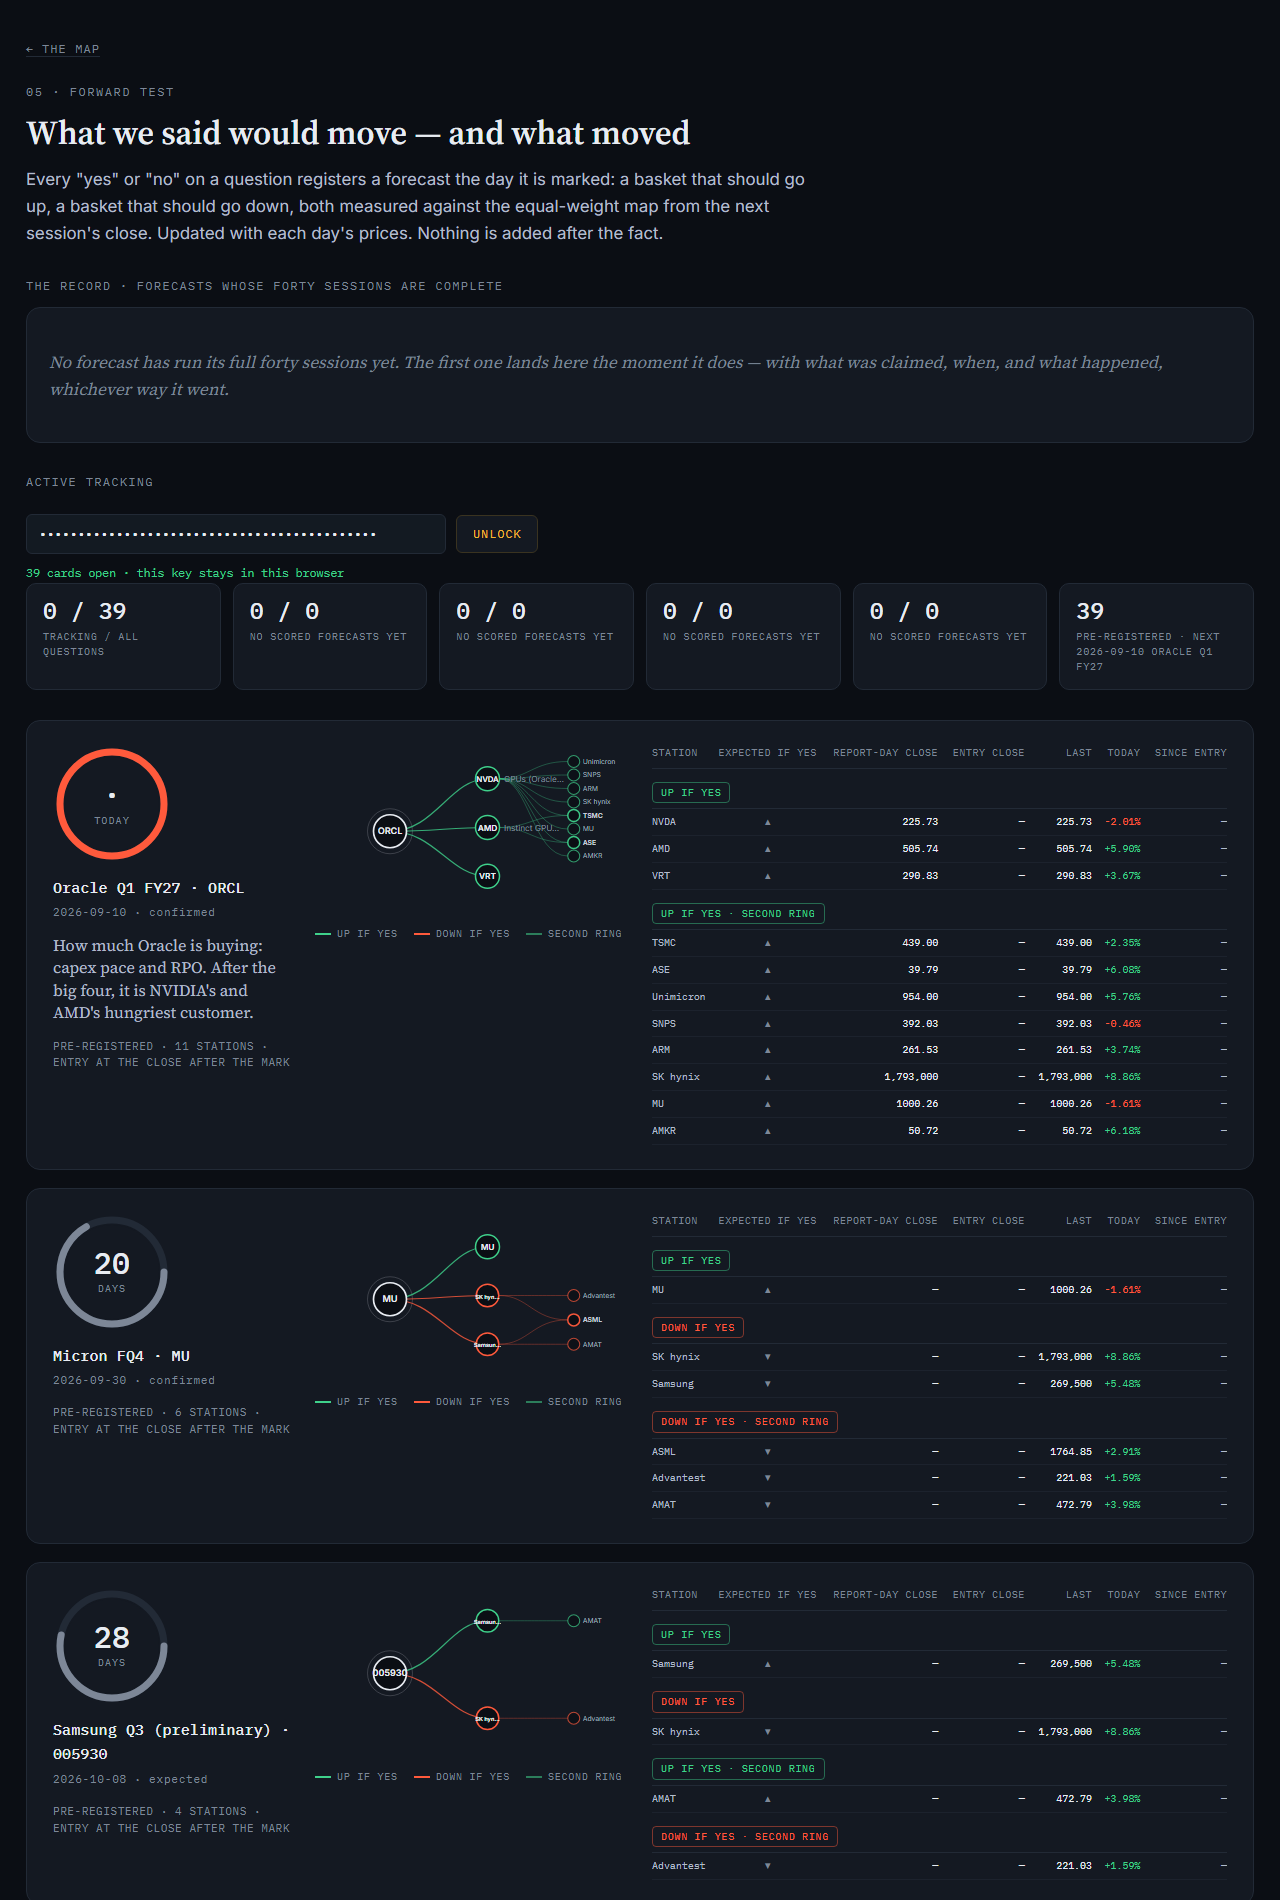
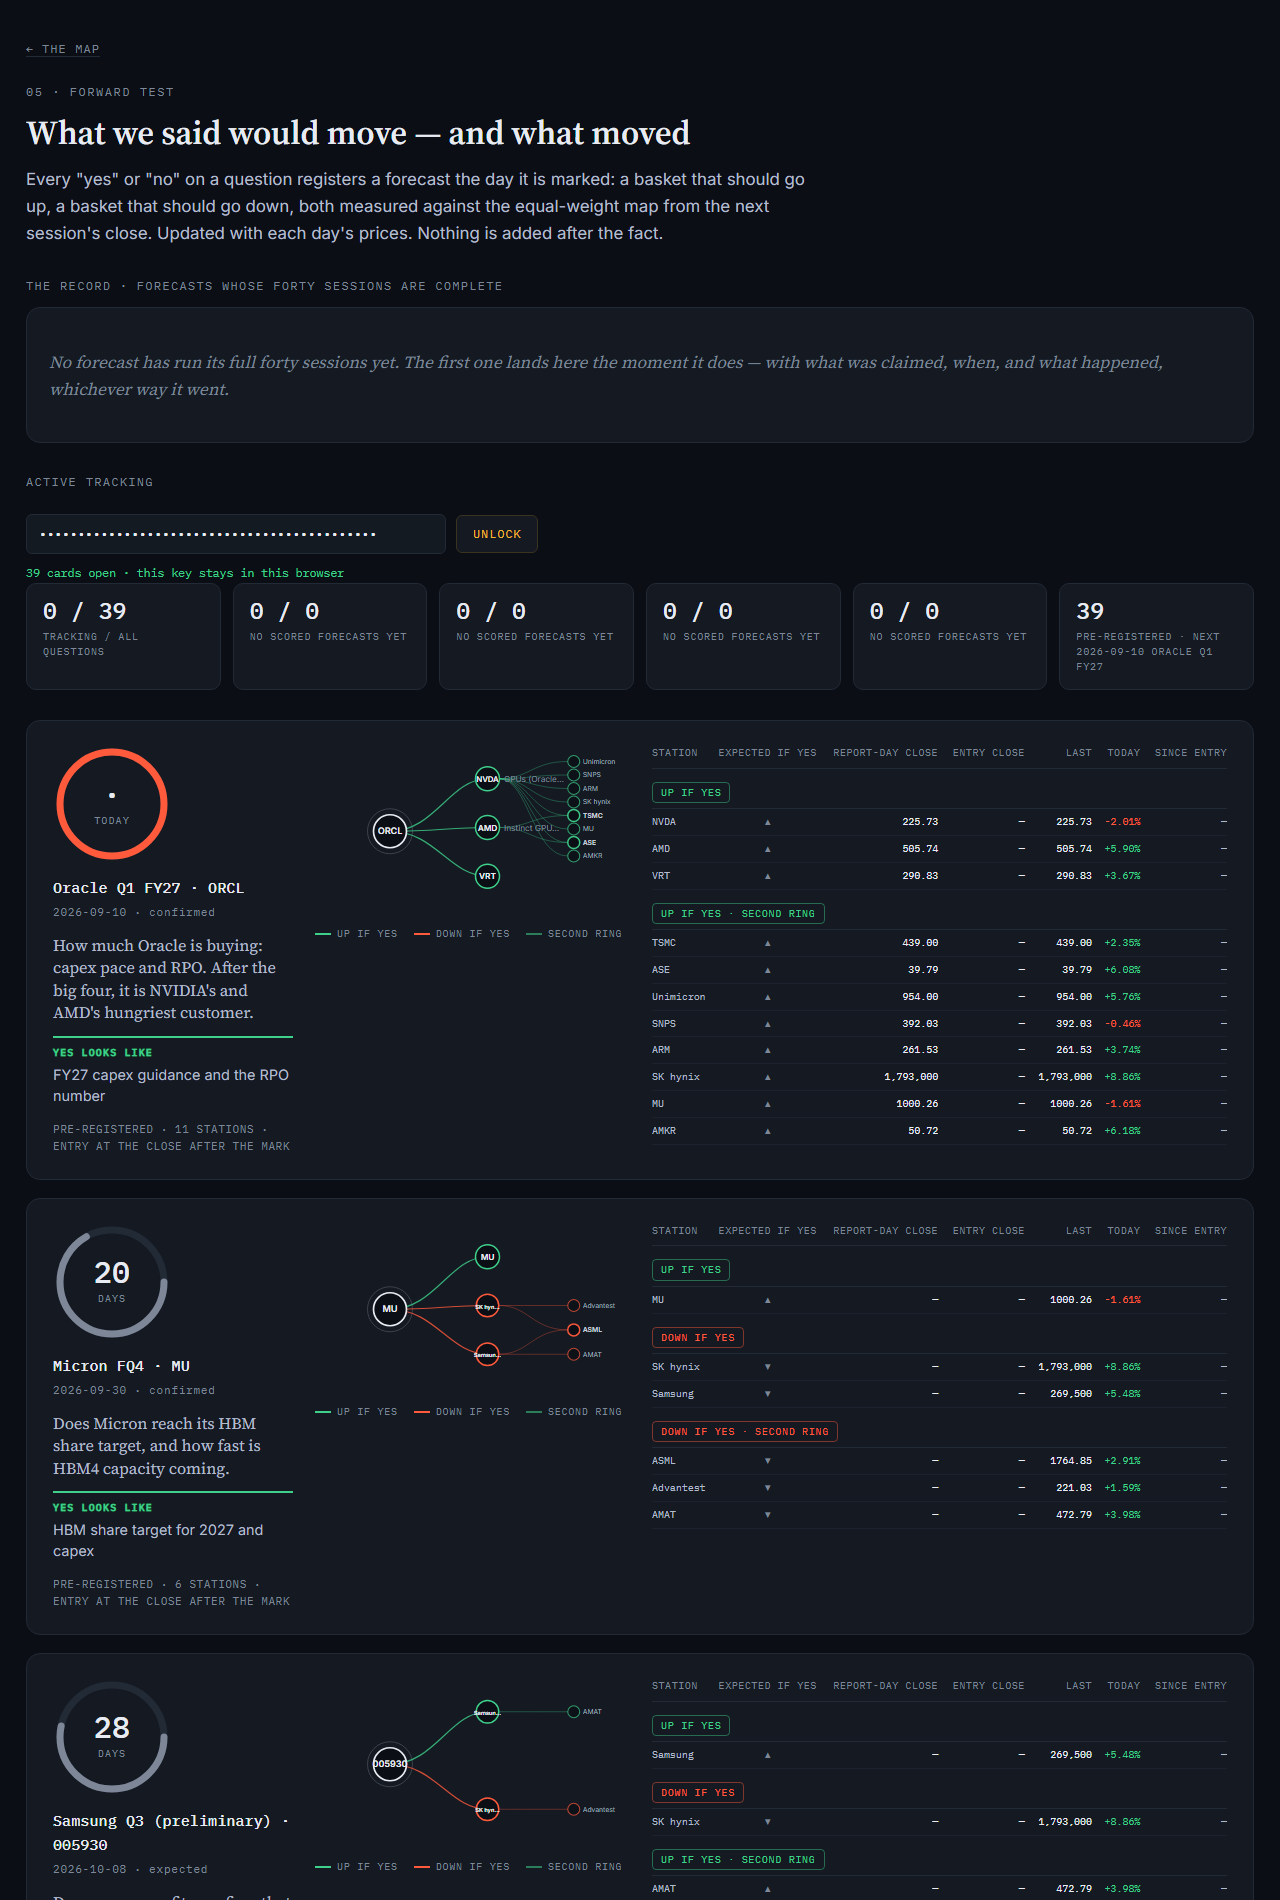
The sealed payload carries every question, not just the public one
The encrypted file is the paid view, and a subscriber who cannot see the
question a forecast was made from cannot check the forecast -- which is the
thing they are paying for. Every card in track.enc.json now carries q, yes, no
and why, taken from the same QUESTIONS_URL source the build already fetches,
through the same questions.merge() the paid letter uses.

The tier rule is unchanged and it is a rule about PLAINTEXT: the map page still
carries one question's text of thirty-nine, live.json still carries one, the
slim track block in it carries none, and the public tracking page carries the
question only on a forecast whose answer is already public -- never yes, no or
why. The paywall on the sealed file is the key, not the absence of the
sentence.

There are three callers of unlock_all in the package and every one is a paid
output: the two letters, which pass "not free", and this, which passes True
because the file is encrypted before it is published. A test greps for a
fourth, because "no new caller appeared" is not a property anything else can
assert.

track-cards.js draws the block at the top of the card's left column -- serif
question, then "Yes looks like" / "No looks like", then "Why it matters" --
and omits any part the source has nothing for. The current questions file is
v1-shaped, so every card has a question and a yes and none has a no or a why;
they will appear the day the source grows them. The two-column block goes to
[…]

diff --git a/chains/templates/track-cards.js b/chains/templates/track-cards.js
@@ -207,6 +207,26 @@
     return `<div class="tw"><table class="mem">${cols}${rows}</table></div>`;
   }
 
+  // The four sentences, in the order the question cards use them. Only the
+  // sealed payload carries these; a card built from a public payload has none
+  // and simply does not draw the block. A part the source has nothing for is
+  // omitted rather than printed empty -- a v1 questions file has no "no"
+  // sentence, and inventing one would be inventing the product.
+  function question(r){
+    if(!r.q && !r.yes && !r.no && !r.why) return '';
+    // One column when only one side has a sentence. A v1 questions file has
+    // no "no" sentence, and a half-width column beside an empty one wraps
+    // three words to a line for no reason.
+    const both = !!(r.yes && r.no);
+    const yn = (r.yes || r.no) ? `<div class="yn${both?'':' one'}">`
+      + (r.yes?`<div class="y"><b>Yes looks like</b>${esc(r.yes)}</div>`:'')
+      + (r.no?`<div class="no"><b>No looks like</b>${esc(r.no)}</div>`:'')
+      + `</div>` : '';
+    return (r.q?`<p class="q">${esc(r.q)}</p>`:'')
+      + yn
+      + (r.why?`<p class="why"><b>Why it matters.</b> ${esc(r.why)}</p>`:'');
+  }
+
   function head(r, today){
     const m = word(r);
     const daysTo = d => Math.round((Date.parse(d+'T00:00:00Z')
@@ -244,7 +264,7 @@
       ${badge}
       <div class="who" style="margin-top:12px">${esc(r.who)}${r.tk?' · '+esc(r.tk):''}</div>
       <div class="dt">${esc(when)}</div>
-      ${r.q?`<p class="q">${esc(r.q)}</p>`:''}
+      ${question(r)}
       ${line}${nums}
     </div>`;
   }

diff --git a/chains/templates/track.html b/chains/templates/track.html
@@ -68,6 +68,15 @@ table.sb td:first-child{color:var(--ink2)}
 .fc .who{font-family:"IBM Plex Mono",monospace;font-size:.95rem;color:var(--ink);font-weight:500}
 .fc .dt{font-family:"IBM Plex Mono",monospace;font-size:.7rem;letter-spacing:.06em;color:var(--ink3);margin-top:5px;line-height:1.6}
 .fc .q{font-family:"Source Serif 4",serif;font-size:1rem;line-height:1.4;color:var(--ink2);margin:12px 0 0}
+/* the question block, only ever drawn from a payload a key opened */
+.fc .yn{display:grid;grid-template-columns:1fr 1fr;gap:14px;margin:12px 0 0}
+.fc .yn.one{grid-template-columns:1fr}
+.fc .yn div{border-top:2px solid;padding-top:8px;font-size:.9rem;color:var(--ink2);line-height:1.45}
+.fc .yn .y{border-color:var(--erode)}.fc .yn .no{border-color:var(--tight)}
+.fc .yn b{display:block;font-family:"IBM Plex Mono",monospace;font-size:.62rem;letter-spacing:.12em;text-transform:uppercase;margin-bottom:5px}
+.fc .yn .y b{color:var(--erode)}.fc .yn .no b{color:var(--tight)}
+.fc .why{font-size:.9rem;color:var(--ink3);line-height:1.45;margin:12px 0 0}
+.fc .why b{color:var(--ink2);font-weight:600}
 .fc .pre{font-family:"IBM Plex Mono",monospace;font-size:.66rem;letter-spacing:.08em;text-transform:uppercase;color:var(--ink3);margin-top:14px;line-height:1.6}
 .fc .pill{margin-top:12px;font-size:.66rem;padding:3px 9px}
 .pill.grey{color:var(--ink3);border-color:var(--rule)}

diff --git a/chains/templates/live-map-en.html b/chains/templates/live-map-en.html
@@ -194,6 +194,7 @@ canvas{display:block;width:100%;height:720px;cursor:crosshair}
 .tag.exp{border-color:var(--amber);color:var(--amber)}
 .q{font-family:"Source Serif 4",serif;font-size:1.45rem;line-height:1.35;margin:0 0 18px;max-width:34ch}
 .yn{display:grid;grid-template-columns:1fr 1fr;gap:18px;margin-bottom:16px}
+.yn.one{grid-template-columns:1fr}
 .yn div{border-top:2px solid;padding-top:9px;font-size:.95rem;color:var(--ink2);line-height:1.45}
 .yn .y{border-color:var(--erode)}.yn .no{border-color:var(--tight)}
 .yn b{display:block;font-family:"IBM Plex Mono",monospace;font-size:.7rem;letter-spacing:.12em;text-transform:uppercase;margin-bottom:5px}

diff --git a/chains/templates/live-map.html b/chains/templates/live-map.html
@@ -194,6 +194,7 @@ canvas{display:block;width:100%;height:720px;cursor:crosshair}
 .tag.exp{border-color:var(--amber);color:var(--amber)}
 .q{font-family:"Source Serif 4",serif;font-size:1.45rem;line-height:1.35;margin:0 0 18px;max-width:34ch}
 .yn{display:grid;grid-template-columns:1fr 1fr;gap:18px;margin-bottom:16px}
+.yn.one{grid-template-columns:1fr}
 .yn div{border-top:2px solid;padding-top:9px;font-size:.95rem;color:var(--ink2);line-height:1.45}
 .yn .y{border-color:var(--erode)}.yn .no{border-color:var(--tight)}
 .yn b{display:block;font-family:"IBM Plex Mono",monospace;font-size:.7rem;letter-spacing:.12em;text-transform:uppercase;margin-bottom:5px}

diff --git a/tests/test_track.py b/tests/test_track.py
@@ -812,3 +812,125 @@ def test_the_renderer_does_not_fetch_or_decrypt_anything():
     js = (templates_dir() / "track-cards.js").read_text(encoding="utf-8")
     for word in ("fetch(", "crypto.subtle", "localStorage", "track.enc"):
         assert word not in js, word
+
+
+# -- the sealed payload carries every question -------------------------------
+#
+# The tier rule -- nearest question only -- is a rule about PLAINTEXT. This
+# file is encrypted before it is published and the plaintext never leaves the
+# runner, so the paywall here is the key. A subscriber who cannot see the
+# question a forecast was made from cannot check the forecast, which is the
+# whole thing they are paying for.
+
+def test_a_record_carries_whatever_text_it_was_handed(book):
+    """The tier is decided upstream by what merge() attached. record() copies;
+    it does not decide again -- one place deciding is the point of
+    chains/access.py."""
+    w = q("a", "2026-06-01", ["up"], [], q="Is it shipping?",
+          yes="Units up", no="Units flat", why="It sets the floor.")
+    r = one(book, [w])
+    assert (r["q"], r["yes"], r["no"], r["why"]) == (
+        "Is it shipping?", "Units up", "Units flat", "It sets the floor.")
+
+
+def test_a_record_omits_a_part_it_was_not_handed(book):
+    """A v1 questions file has no "no" sentence. The field is absent, not
+    empty: inventing one would be inventing the product."""
+    r = one(book, [q("a", "2026-06-01", ["up"], [], q="Is it shipping?",
+                     yes="Units up")])
+    assert r["q"] and r["yes"]
+    assert "no" not in r and "why" not in r
+
+
+def test_a_record_with_no_text_has_none_of_the_four(book):
+    r = one(book, [q("a", "2026-06-01", ["up"], [])])
+    for part in ("q", "yes", "no", "why"):
+        assert part not in r
+
+
+def test_the_public_half_never_carries_the_three_extra_parts(book):
+    """Only the question itself, and only on a finished forecast, whose answer
+    is already public. yes/no/why stay behind the key."""
+    watch = [q("c", "2026-01-06", ["up"], ["down"], q="Q?", yes="Y", no="N",
+               why="W")]
+    fs = [fc("f", "c", ["up"], ["down"], CAL[0].isoformat())]
+    pub = track.public(built(book, watch, fs, {"c": {"status": "yes"}}))
+    row = pub["closed"][0]
+    assert row["q"] == "Q?"
+    for part in ("yes", "no", "why"):
+        assert part not in row
+    blob = json.dumps(pub)
+    assert '"Y"' not in blob and '"N"' not in blob and '"W"' not in blob
+
+
+def test_the_slim_copy_carries_no_text_at_all(book):
+    """live.json is published as plaintext. Nothing of the four goes in it."""
+    watch = [q("a", "2026-06-01", ["up"], [], q="Q?", yes="Y", no="N", why="W")]
+    thin = track.slim(built(book, watch))
+    for part in ("q", "yes", "no", "why"):
+        assert part not in thin["forecasts"][0]
+    assert "Q?" not in json.dumps(thin)
+
+
+def test_the_text_is_unreadable_once_sealed(book):
+    """The obvious property, asserted anyway: it is the one that makes putting
+    every question in this file safe."""
+    watch = [q("a", "2026-06-01", ["up"], [],
+               q="A sentence nobody has paid for yet.")]
+    data = built(book, watch)
+    k = key()
+    blob = json.dumps(track.encrypt(data, k))
+    assert "A sentence nobody has paid for yet." not in blob
+    assert track.decrypt(json.loads(blob), k)["forecasts"][0]["q"] == \
+        "A sentence nobody has paid for yet."
+
+
+def test_only_paid_outputs_unlock_every_row():
+    """The flag is explicit and every caller is a paid output: the two letters,
+    which pass ``not free``, and the sealed payload, which passes True outright
+    because that file is encrypted before it is published.
+
+    Nothing that writes a plaintext published file sets it, and this is the
+    check that says so -- grep, as a test, because the property is "no fourth
+    caller appeared" and nothing else can assert that.
+    """
+    import pathlib
+    hits = {p.name for p in sorted(pathlib.Path("chains").glob("*.py"))
+            if "unlock_all=" in p.read_text(encoding="utf-8")}
+    assert hits == {"brief.py", "brief_he.py", "track.py"}, hits
+    # and the one that unlocks unconditionally is the encrypted one
+    src = pathlib.Path("chains/track.py").read_text(encoding="utf-8")
+    assert "unlock_all=True" in src
+    for name in ("brief.py", "brief_he.py"):
+        assert "unlock_all=not free" in pathlib.Path(
+            "chains", name).read_text(encoding="utf-8")
+
+
+# -- the renderer draws it ---------------------------------------------------
+
+def test_the_renderer_draws_the_question_block():
+    body = cards_source()
+    assert "function question(r){" in body
+    assert "Yes looks like" in body and "No looks like" in body
+    assert "Why it matters." in body
+
+
+def test_the_renderer_omits_a_part_that_is_not_there():
+    body = cards_source()
+    assert "if(!r.q && !r.yes && !r.no && !r.why) return '';" in body
+    assert "r.no?" in body and "r.why?" in body
+
+
+def test_the_block_goes_to_one_column_with_only_one_side():
+    """A v1 file has no "no" sentence, and a half-width column beside an empty
+    one wraps three words to a line for no reason."""
+    assert "const both = !!(r.yes && r.no);" in cards_source()
+    assert ".fc .yn.one{grid-template-columns:1fr}" in template()
+
+
+def test_both_pages_style_the_block():
+    """The renderer is shared, so the classes have to exist on both."""
+    from chains.paths import templates_dir
+    priv = (templates_dir() / "live-map.html").read_text(encoding="utf-8")
+    for css in (template(), priv):
+        assert ".yn" in css and ".why" in css

diff --git a/chains/track.py b/chains/track.py
@@ -263,10 +263,14 @@ def record(w: dict, f: dict | None, twin: dict | None, row: dict | None,
                                   + list(w.get("lose") or [])[:3])],
     }
     out["has_r2"] = bool(out["win2"] or out["lose2"])
-    # The question text is the product boundary: present only where the row is
-    # already open, and absent rather than empty on a locked one.
-    if w.get("q"):
-        out["q"] = w["q"]
+    # The four sentences. In the SEALED payload every card carries them --
+    # that file is the paid view and the whole point of paying for it. In any
+    # plaintext output only an open row has them, because only an open row was
+    # handed them: the tier is decided upstream, by what merge() attached, and
+    # this copies whatever is there rather than deciding again.
+    for part in ("q", "yes", "no", "why"):
+        if w.get(part):
+            out[part] = w[part]
 
     legs = {g: out[g] for g in GROUPS}
     window = ([x for x in cal if x >= entry][:MAX_POINTS + 1]
@@ -634,10 +638,14 @@ def build_files(plain: bool = False) -> dict:
     # that file now strips them off every locked row, which is the point. The
     # question TEXT still comes from live, where only an open row carries it.
     rows = json.loads(watch_en_path().read_text(encoding="utf-8"))
-    text = {w["id"]: w.get("q") for w in (live.get("watch") or []) if w.get("q")}
-    for r in rows:
-        if text.get(r["id"]):
-            r["q"] = text[r["id"]]
+    # Every row gets its text. This file is encrypted before it is published
+    # and the plaintext never leaves the runner, so the paywall here is the
+    # key, not the absence of the sentence -- and a subscriber who cannot see
+    # the question a forecast was made from cannot check the forecast.
+    from chains import questions
+    rows = questions.merge(rows, questions.fetch(), "en",
+                           dt.date.fromisoformat(live["as_of"]),
+                           unlock_all=True)
     data = build(forecasts, live.get("ledger"), rows,
                  marks=live.get("answers"),
                  today=dt.date.fromisoformat(live["as_of"]))

diff --git a/chains/questions.py b/chains/questions.py
@@ -229,9 +229,10 @@ def merge(rows: list[dict], text: dict[str, dict], lang: str,
     """
     fields = LANG_FIELDS[lang]
     unlocked = open_ids(rows, today)
-    # The paid mail is the one place every row carries its text. The flag is
-    # explicit and it is never set by anything that writes a published file:
-    # grep for unlock_all and every hit is a brief.
+    # Two places set this, and both are paid: the mail, and the tracking
+    # payload that is encrypted before it is published. The flag is explicit
+    # and nothing that writes a PLAINTEXT published file sets it -- grep for
+    # unlock_all and every hit is a brief or the sealed payload.
     open_flags = {r["id"]: r["id"] in unlocked for r in rows}
     if unlock_all:
         unlocked = {r["id"] for r in rows}
